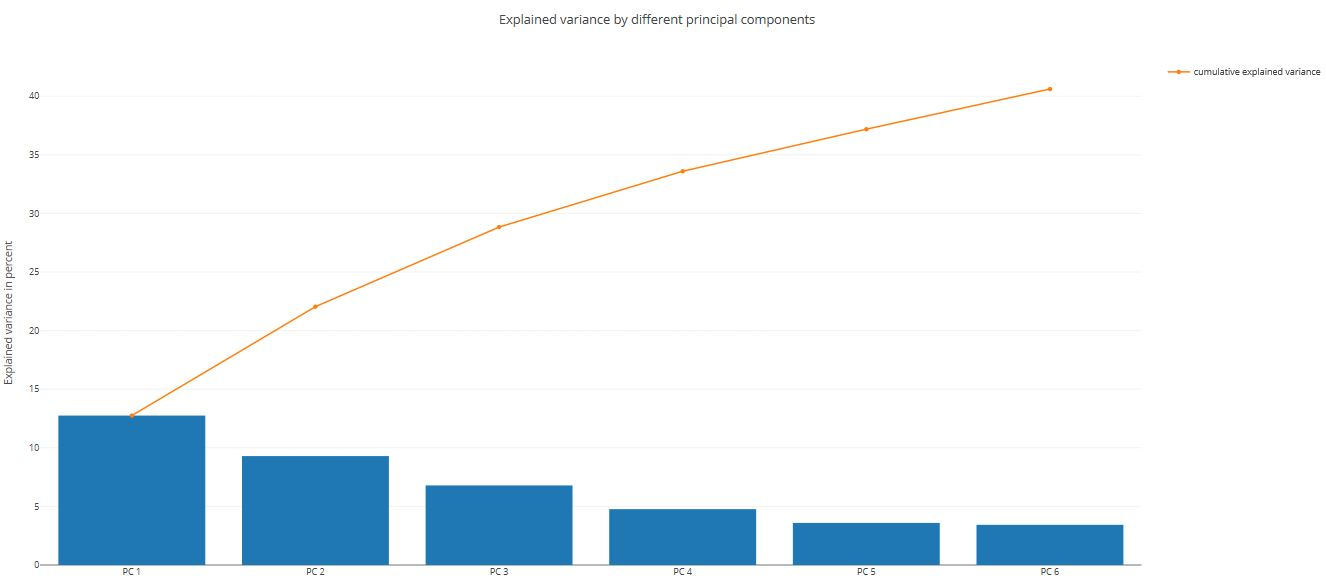
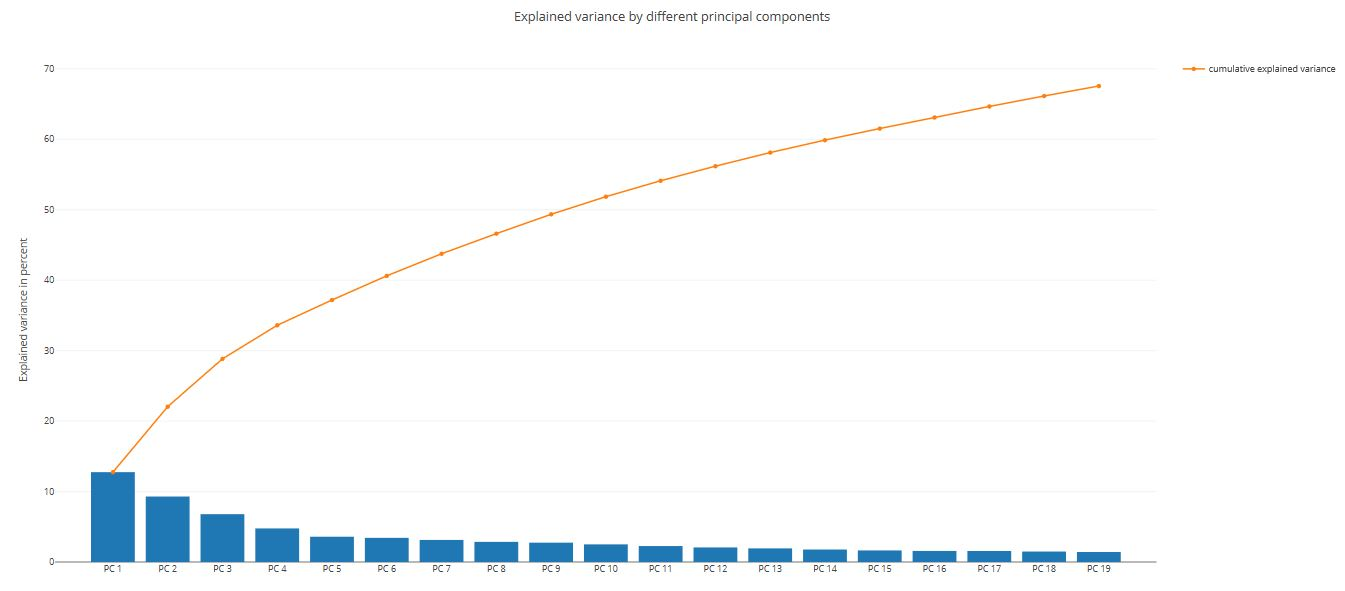
fa partially implemented

diff --git a/Lab2/Analize/decomposition.py b/Lab2/Analize/decomposition.py
@@ -5,6 +5,7 @@ from sklearn.preprocessing import StandardScaler
 import numpy as np
 from sklearn.model_selection import cross_val_score
 import pandas as pd
+from factor_analyzer import FactorAnalyzer
 
 
 def calculate_loadings(pca):
@@ -16,12 +17,15 @@ class DimRed:
     def __init__(self, sample):
         self.sample = StandardScaler().fit_transform(sample)
 
+    def covariances_matrix(self):
+        return self.sample.T*self.sample/((len(self.sample[0]))-1)
+
     def svd(self):
         u, s, v = np.linalg.svd(self.sample.T)
         return u, s, v
 
     def compute_scores(self, max_n):
-        n_components = np.arange(0, max_n, 5)
+        n_components = np.arange(0, max_n, 1)
         pca = PCA(svd_solver='full')
         fa = FactorAnalysis()
         pca_scores, fa_scores = [], []
@@ -33,22 +37,22 @@ class DimRed:
         return pca_scores, fa_scores
 
     def select_num_comp(self, max_n):
-        n_components = np.arange(0, max_n, 5)
+        n_components = np.arange(0, max_n, 1)
         pca_scores, fa_scores = self.compute_scores(max_n)
         print("pca_scores", pca_scores)
         print("fa_scores", fa_scores)
         n_components_pca = n_components[np.argmax(pca_scores)]
         n_components_fa = n_components[np.argmax(fa_scores)]
-        self.select_n()
+        self.select_n(max_n)
         if n_components_pca == n_components_fa:
             return n_components_pca
         else:
             return [n_components_pca, n_components_fa]
 
-    def select_n(self):
-        U, S, V = np.linalg.svd(self.sample)
+    def select_n(self, n):
+        U, S, V = self.svd()
         eigvals = S ** 2 / np.cumsum(S)[-1]
-        plot_n_selection(eigvals, 'scree_plot', 7)
+        plot_n_selection(eigvals, 'scree_plot', n)
 
     def pca_svd(self, n):
         pca = PCA(n_components=n)
@@ -57,9 +61,13 @@ class DimRed:
         print(calculate_loadings(pca))
         # principal components scores
         eigen_vectors = pd.DataFrame(pca.components_.T)
-        draw_heatmap(eigen_vectors, "PCA eigenvectors")
+        #print(eigen_vectors)
+        #draw_heatmap(eigen_vectors, "PCA eigenvectors (svd)")
+
         print(pca.components_)
         pca_res = pca.fit_transform(list(self.sample))
+        draw_heatmap(pca_res, "Scores")
+        print(pca_res)
         # plot_components(pca_res, 'svd_components')
 
     def spectral_emb(self, n):
@@ -71,17 +79,25 @@ class DimRed:
     def fa(self, n):
         fa = FactorAnalysis(n_components=n)
         fa.fit(self.sample)
-        print(fa.components_)
+        print('fa_components: ',fa.components_)
+        fa = FactorAnalyzer()
+        fa.analyze(pd.DataFrame(data=self.sample),
+                   n_factors=n,
+                   method='minres')
+        draw_heatmap(fa.loadings, "Loadings")
 
-    def variance_explained(self):
+    def variance_explained(self, num_comp = 20):
         # covariance matrix
         cov_mat = np.cov(self.sample.T)
         eig_vals, eig_vecs = np.linalg.eig(cov_mat)
         print('Covariance matrix: \n%s' % cov_mat)
         print('Eigenvectors \n%s' % eig_vecs)
         print('\nEigenvalues \n%s' % eig_vals)
-        self.svd()
+        eigen_vectors_df = pd.DataFrame(eig_vecs.T[:num_comp])
+        draw_heatmap(eigen_vectors_df.T, "PCA eigenvectors (eigendecomposition)")
+        u, s, v = self.svd()
+        # draw_heatmap(s.T, "PCA eigenvectors (svd)")
         tot = sum(eig_vals)
         var_exp = [(i / tot) * 100 for i in sorted(eig_vals, reverse=True)]
         cum_var_exp = np.cumsum(var_exp)
-        plot_explained_variance(var_exp, cum_var_exp)
+        plot_explained_variance(var_exp, cum_var_exp, num_comp)

diff --git a/Lab2/Vis/vis_tools.py b/Lab2/Vis/vis_tools.py
@@ -41,13 +41,13 @@ def plot_n_selection(eigvalues, title, num=7):
     # image.save_as(fig, filename=path_to_figure + title + '.jpeg')
 
 
-def plot_explained_variance(var_exp, cum_var_exp):
+def plot_explained_variance(var_exp, cum_var_exp, num_comp):
     trace1 = go.Bar(
-        x=['PC %s' % i for i in range(1, 7)],
+        x=['PC %s' % i for i in range(1, num_comp)],
         y=var_exp,
         showlegend=False)
     trace2 = go.Scatter(
-        x=['PC %s' % i for i in range(1, 7)],
+        x=['PC %s' % i for i in range(1, num_comp)],
         y=cum_var_exp,
         name='cumulative explained variance')
     data = [trace1, trace2]

diff --git a/Lab2/main.py b/Lab2/main.py
@@ -23,14 +23,14 @@ def main():
 
     red = DimRed(data)
 
-    print('Optimal number of components is ', red.select_num_comp(10))
+    # print('Optimal number of components is ', red.select_num_comp(40))
 
-    optimal = red.select_num_comp(10)
-    red.svd()
+    optimal = red.select_num_comp(40)
+    # red.svd()
     red.variance_explained()
-    #red.pca_svd(optimal)
+    # red.pca_svd(optimal)
     # red.spectral_emb(optimal)
-    # red.fa(optimal)
+    red.fa(optimal)
 
 
 if __name__ == '__main__':
